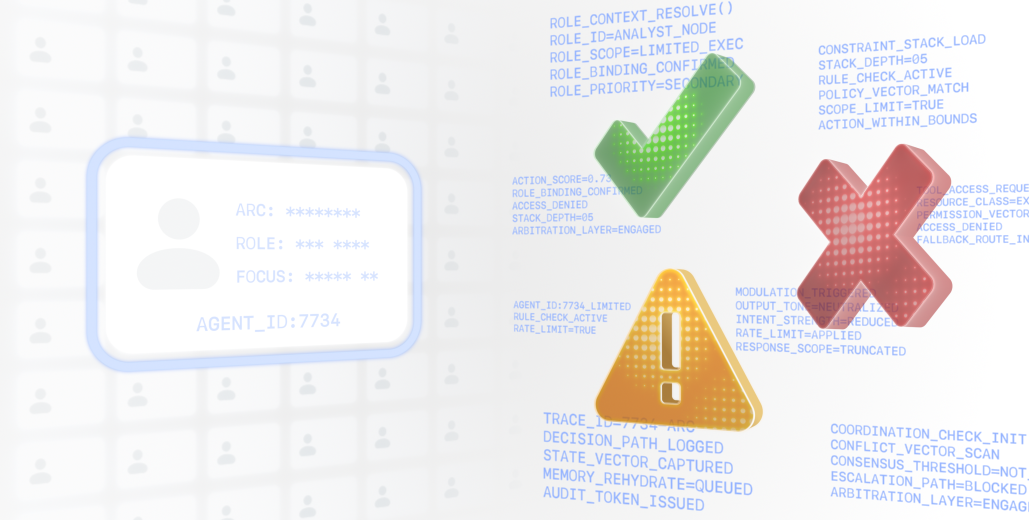
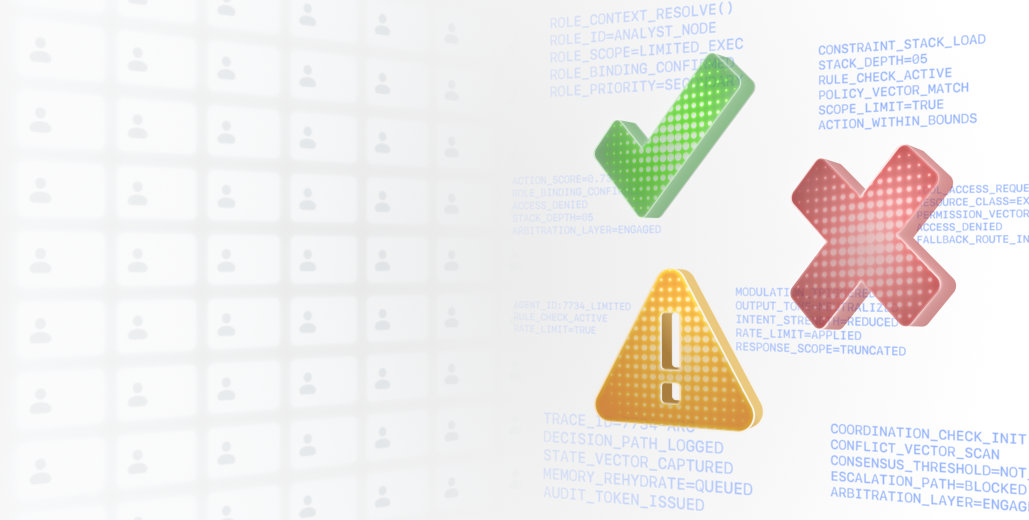
hero and card update

diff --git a/components/HeroOverlayCard.module.css b/components/HeroOverlayCard.module.css
@@ -1,0 +1,90 @@
+.card {
+  /* Base footprint ≈360x175, but scales slightly with hero width */
+  width: min(360px, 38vw);
+  aspect-ratio: 360 / 175;
+  box-sizing: border-box;
+  container-type: inline-size;
+  border-radius: clamp(14px, 3vw, 22px);
+  background: rgba(255, 255, 255, 0.98);
+  border: 2px solid rgba(120, 170, 255, 0.65);
+  box-shadow:
+    0 18px 45px rgba(25, 55, 100, 0.16),
+    0 0 0 8px rgba(120, 170, 255, 0.22);
+  padding: 14px 14px;
+  overflow: hidden;
+
+  transform-style: preserve-3d;
+  transform-origin: center center;
+  /* Right edge closer, left edge receding, matching hero grid perspective */
+  transform:
+    perspective(900px)
+    rotateY(calc(25deg + var(--tiltY, 0deg)))
+    rotateX(calc(3deg + var(--tiltX, 0deg)))
+    rotateZ(0deg);
+  transition: transform 160ms ease-out;
+  animation: pulse-outline 2.5s ease-in-out infinite;
+}
+
+@keyframes pulse-outline {
+  0%, 100% {
+    border-width: 1px;
+    border-color: rgba(120, 170, 255, 0.5);
+    box-shadow:
+      0 18px 45px rgba(25, 55, 100, 0.16),
+      0 0 0 4px rgba(120, 170, 255, 0.18);
+  }
+  50% {
+    border-width: 2px;
+    border-color: rgba(120, 170, 255, 0.95);
+    box-shadow:
+      0 18px 45px rgba(25, 55, 100, 0.16),
+      0 0 0 8px rgba(120, 170, 255, 0.5);
+  }
+}
+
+.inner {
+  width: 100%;
+  height: 100%;
+  display: flex;
+  align-items: center;
+  justify-content: flex-start;
+  padding-left: clamp(12px, 6%, 20px);
+  transform: translateZ(18px);
+}
+
+.avatar {
+  width: 25%;
+  max-width: 64px;
+  height: auto;
+  aspect-ratio: 50 / 56;
+}
+
+.text {
+  margin-left: clamp(16px, 7%, 24px);
+  display: flex;
+  flex-direction: column;
+  gap: 8px;
+  color: rgba(92, 140, 230, 0.96);
+  font-family: ui-monospace, SFMono-Regular, Menlo, Monaco, Consolas, "Liberation Mono", "Courier New", monospace;
+  /* Scales proportionally with card width via container query */
+  font-size: clamp(4px, 4cqi, 14px);
+  letter-spacing: 0.06em;
+  max-width: 78%;
+}
+
+.line {
+  white-space: nowrap;
+  overflow: hidden;
+  text-overflow: clip;
+}
+@media (prefers-reduced-motion: reduce) {
+  .card {
+    transform: none;
+    transition: none;
+    animation: none;
+  }
+  .inner {
+    transform: none;
+  }
+}
+

diff --git a/components/HeroOverlayCard.tsx b/components/HeroOverlayCard.tsx
@@ -1,0 +1,64 @@
+'use client';
+
+import { useRef } from 'react';
+import styles from './HeroOverlayCard.module.css';
+
+type Props = {
+  agentId?: string;
+};
+
+export default function HeroOverlayCard({ agentId = '7734' }: Props) {
+  const cardRef = useRef<HTMLDivElement | null>(null);
+
+  const handlePointerMove: React.PointerEventHandler<HTMLDivElement> = (event) => {
+    const el = cardRef.current;
+    if (!el) return;
+
+    const rect = el.getBoundingClientRect();
+    const x = event.clientX - rect.left;
+    const y = event.clientY - rect.top;
+
+    const px = x / rect.width - 0.5;
+    const py = y / rect.height - 0.5;
+
+    const maxTilt = 10; // degrees
+    const tiltX = -py * maxTilt;
+    const tiltY = px * maxTilt;
+
+    el.style.setProperty('--tiltX', `${tiltX}deg`);
+    el.style.setProperty('--tiltY', `${tiltY}deg`);
+  };
+
+  const handlePointerLeave: React.PointerEventHandler<HTMLDivElement> = () => {
+    const el = cardRef.current;
+    if (!el) return;
+    el.style.setProperty('--tiltX', '0deg');
+    el.style.setProperty('--tiltY', '0deg');
+  };
+
+  return (
+    <div
+      ref={cardRef}
+      className={styles.card}
+      aria-label="Agent card"
+      onPointerMove={handlePointerMove}
+      onPointerLeave={handlePointerLeave}
+    >
+      <div className={styles.inner}>
+        <img
+          src="/assets/profile.svg"
+          alt=""
+          aria-hidden="true"
+          className={styles.avatar}
+        />
+        <div className={styles.text}>
+          <div className={styles.line}>AGENT_ID: 001</div>
+          <div className={styles.line}>ROLE_VECTOR: ANALYST</div>
+          <div className={styles.line}>CONSTRAINT_DEPTH: 05</div>
+          <div className={styles.line}>ACTION_CHECK: PENDING</div>
+        </div>
+      </div>
+    </div>
+  );
+}
+

diff --git a/components/AdaptabloxAbout.tsx b/components/AdaptabloxAbout.tsx
@@ -2,6 +2,7 @@
 
 import { useEffect, useState } from 'react';
 import { useNavigation } from '@/contexts/NavigationContext';
+import HeroOverlayCard from '@/components/HeroOverlayCard';
 
 const imgGroup28481 = "/assets/logo2.svg";
 const imgIconAlert = "/assets/alert.svg";
@@ -159,11 +160,27 @@ export default function AdaptabloxAbout() {
         data-node-id="1:39"
       >
         <div className="w-full flex justify-center mt-[88px] mb-[4px]">
-          <img
-            src={imgHero}
-            alt="Adaptablox hero"
-            className="w-full max-w-[720px] rounded-[12px] object-cover"
-          />
+          <div
+            className="w-full max-w-[720px] relative"
+            style={{ perspective: '1100px' }}
+          >
+            <img
+              src={imgHero}
+              alt="Adaptablox hero"
+              className="w-full rounded-[12px] object-cover"
+            />
+            <div
+              className="absolute"
+              style={{
+                left: 'clamp(32px, 4vw, 44px)',
+                top: '50%',
+                transform: 'translateY(-50%)',
+                pointerEvents: 'none',
+              }}
+            >
+              <HeroOverlayCard />
+            </div>
+          </div>
         </div>
         <div className="content-stretch flex flex-col gap-[12px] items-start leading-[21px] pb-[12px] pt-[20px] px-[24px] relative shrink-0 text-[#4e4e4e] w-full" data-node-id="1:40">
           <p className="font-sans font-[590] relative shrink-0 text-[24px] text-nowrap" data-node-id="27:625" style={{ fontVariationSettings: "'wdth' 100" }}>
